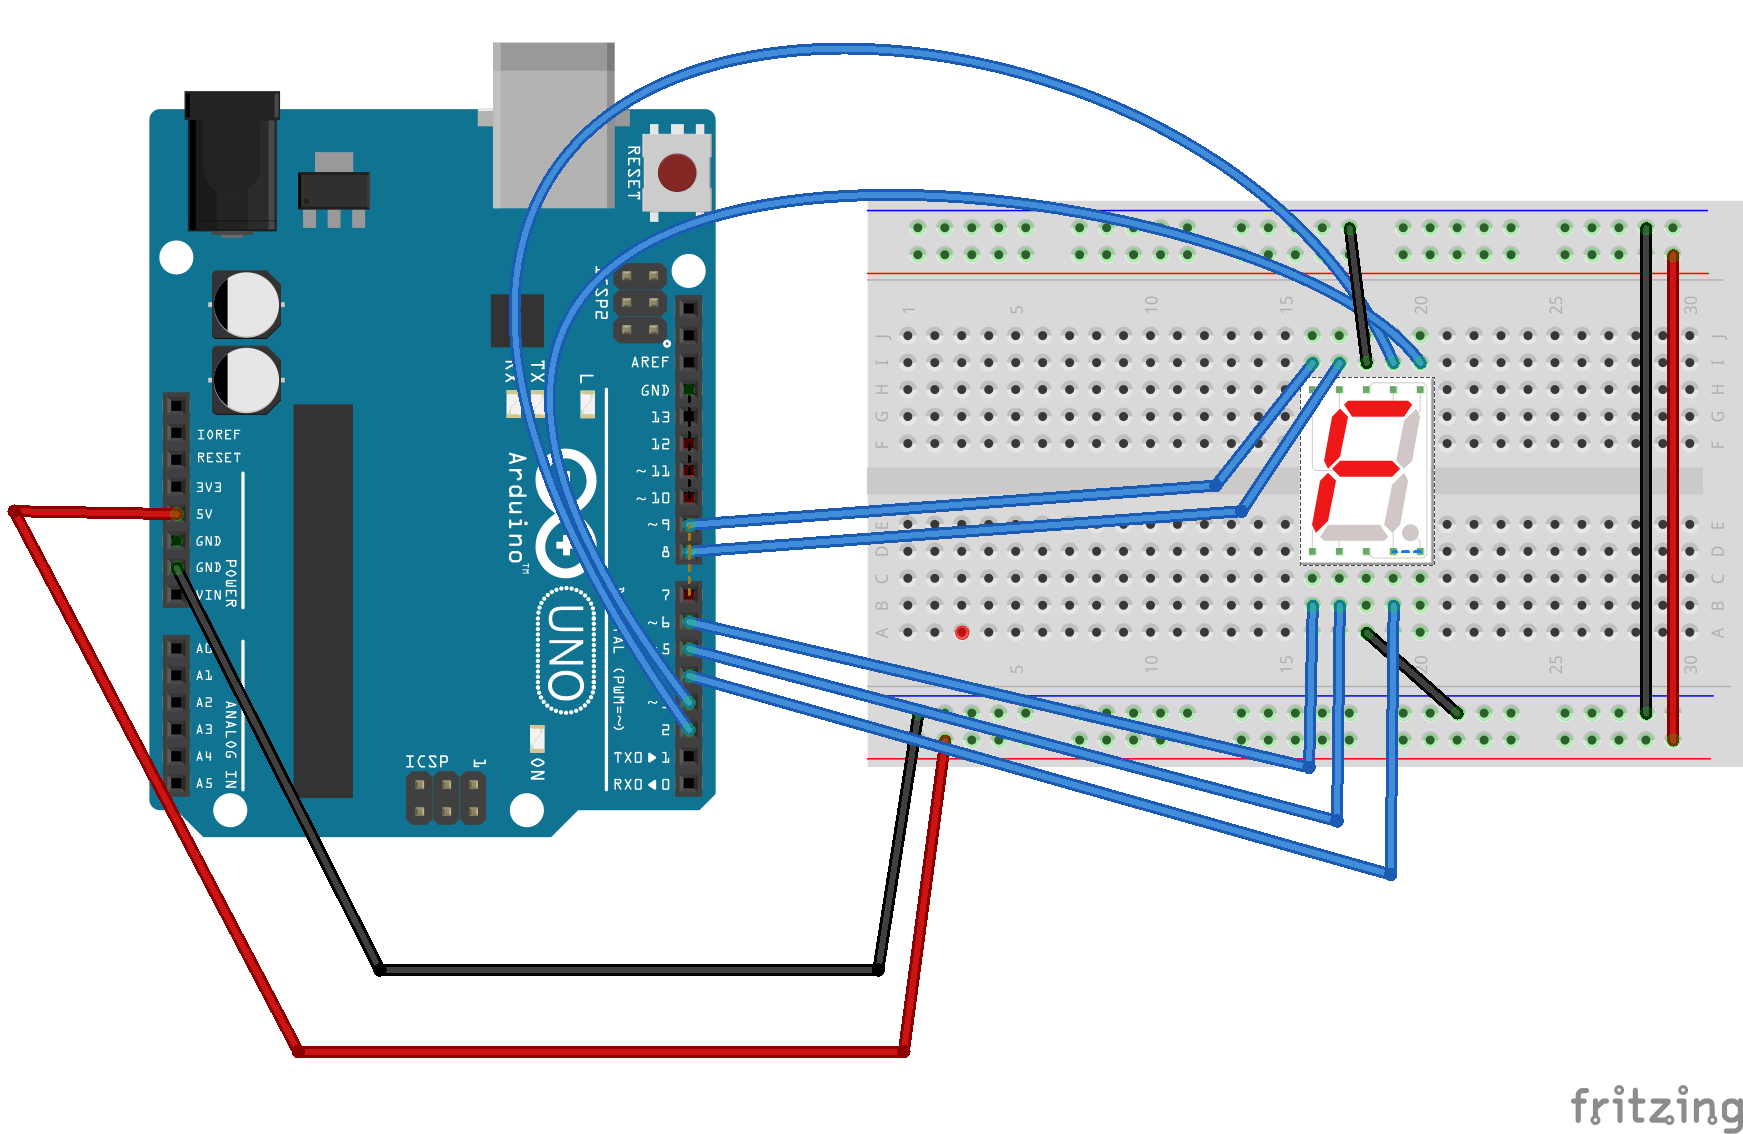
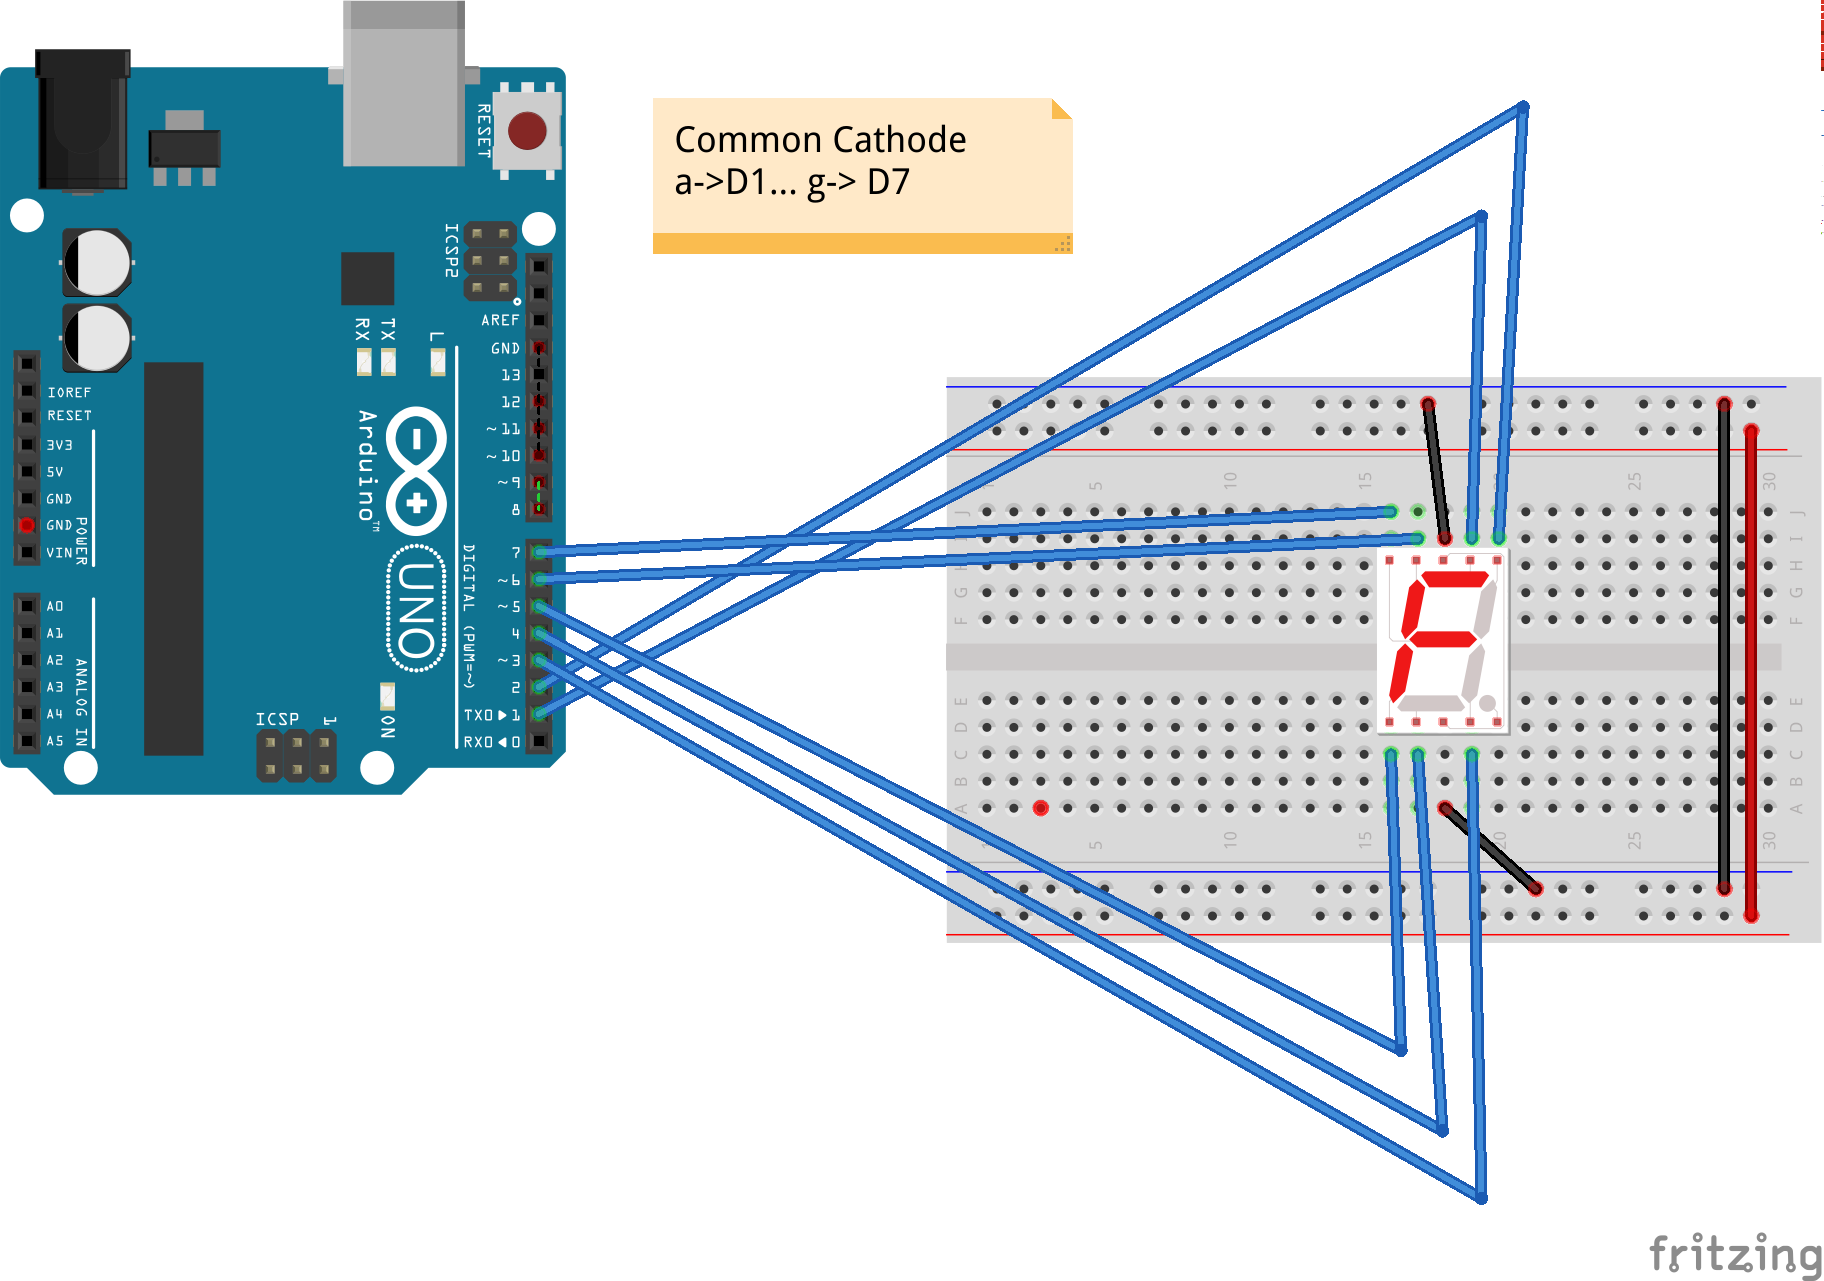
changed fig and first readme for lab1

diff --git a/lab_1/README.md b/lab_1/README.md
@@ -65,12 +65,11 @@ supply line (blue/black, read) are connected. Same for the columns.
 ![7 seg Common Anode interface](figs/numerotation_7seghorizontal_AC.png)
 
 * 7 segment : a on digital 1 via resistor 220 ohm, b on digital 2, ...
-  g on digital 7, according to the preceeding numbering.
+  g on digital 7, according to the preceeding numbering. For instance,
+  for the Comon Cathode setting:
 
 ![Arduino Uno + 7 seg Common Cathode](figs/7SegmentCC_bb.png)
-![Arduino Uno + 7 seg Common Anode](figs/7SegmentAC_bb.png)
 
-** TODO : change the fig !**
 
 **Warning, the 7 segment displays should be connected though resistors
 (from 220 to 400 ohm)**
@@ -78,11 +77,14 @@ supply line (blue/black, read) are connected. Same for the columns.
 
 ### The all together
 
-
+The expected behavior from your code: the seven segment display numbers
+from 0 to 9 then 0, and so one, with a frequency of 1Hz. Of the user
+press the button, then it resets and continue to count from 0. The led
+changes its state (on/off) every time the button is pressed.
 
 ## Steps
 
-In this lab, you will implement the very same (simple) piece of software, at different levels of abstraction. This journey through abstraction levels will help you to identify the pros and cons of each level, and the importance of model-driven engineering and domain-specific languages to reason about domains.
+In this lab, you will implement the very same (simple) behavior, at different levels of abstraction. This journey through abstraction levels will help you to identify the pros and cons of each level, and the importance of model-driven engineering and domain-specific languages to reason about domains.
 
   1. [Plain old C code](https://github.com/mosser/sec-labs/blob/master/lab_1/step_1.md)
   2. [Using the ArduinoLib](https://github.com/mosser/sec-labs/blob/master/lab_1/step_2.md)
